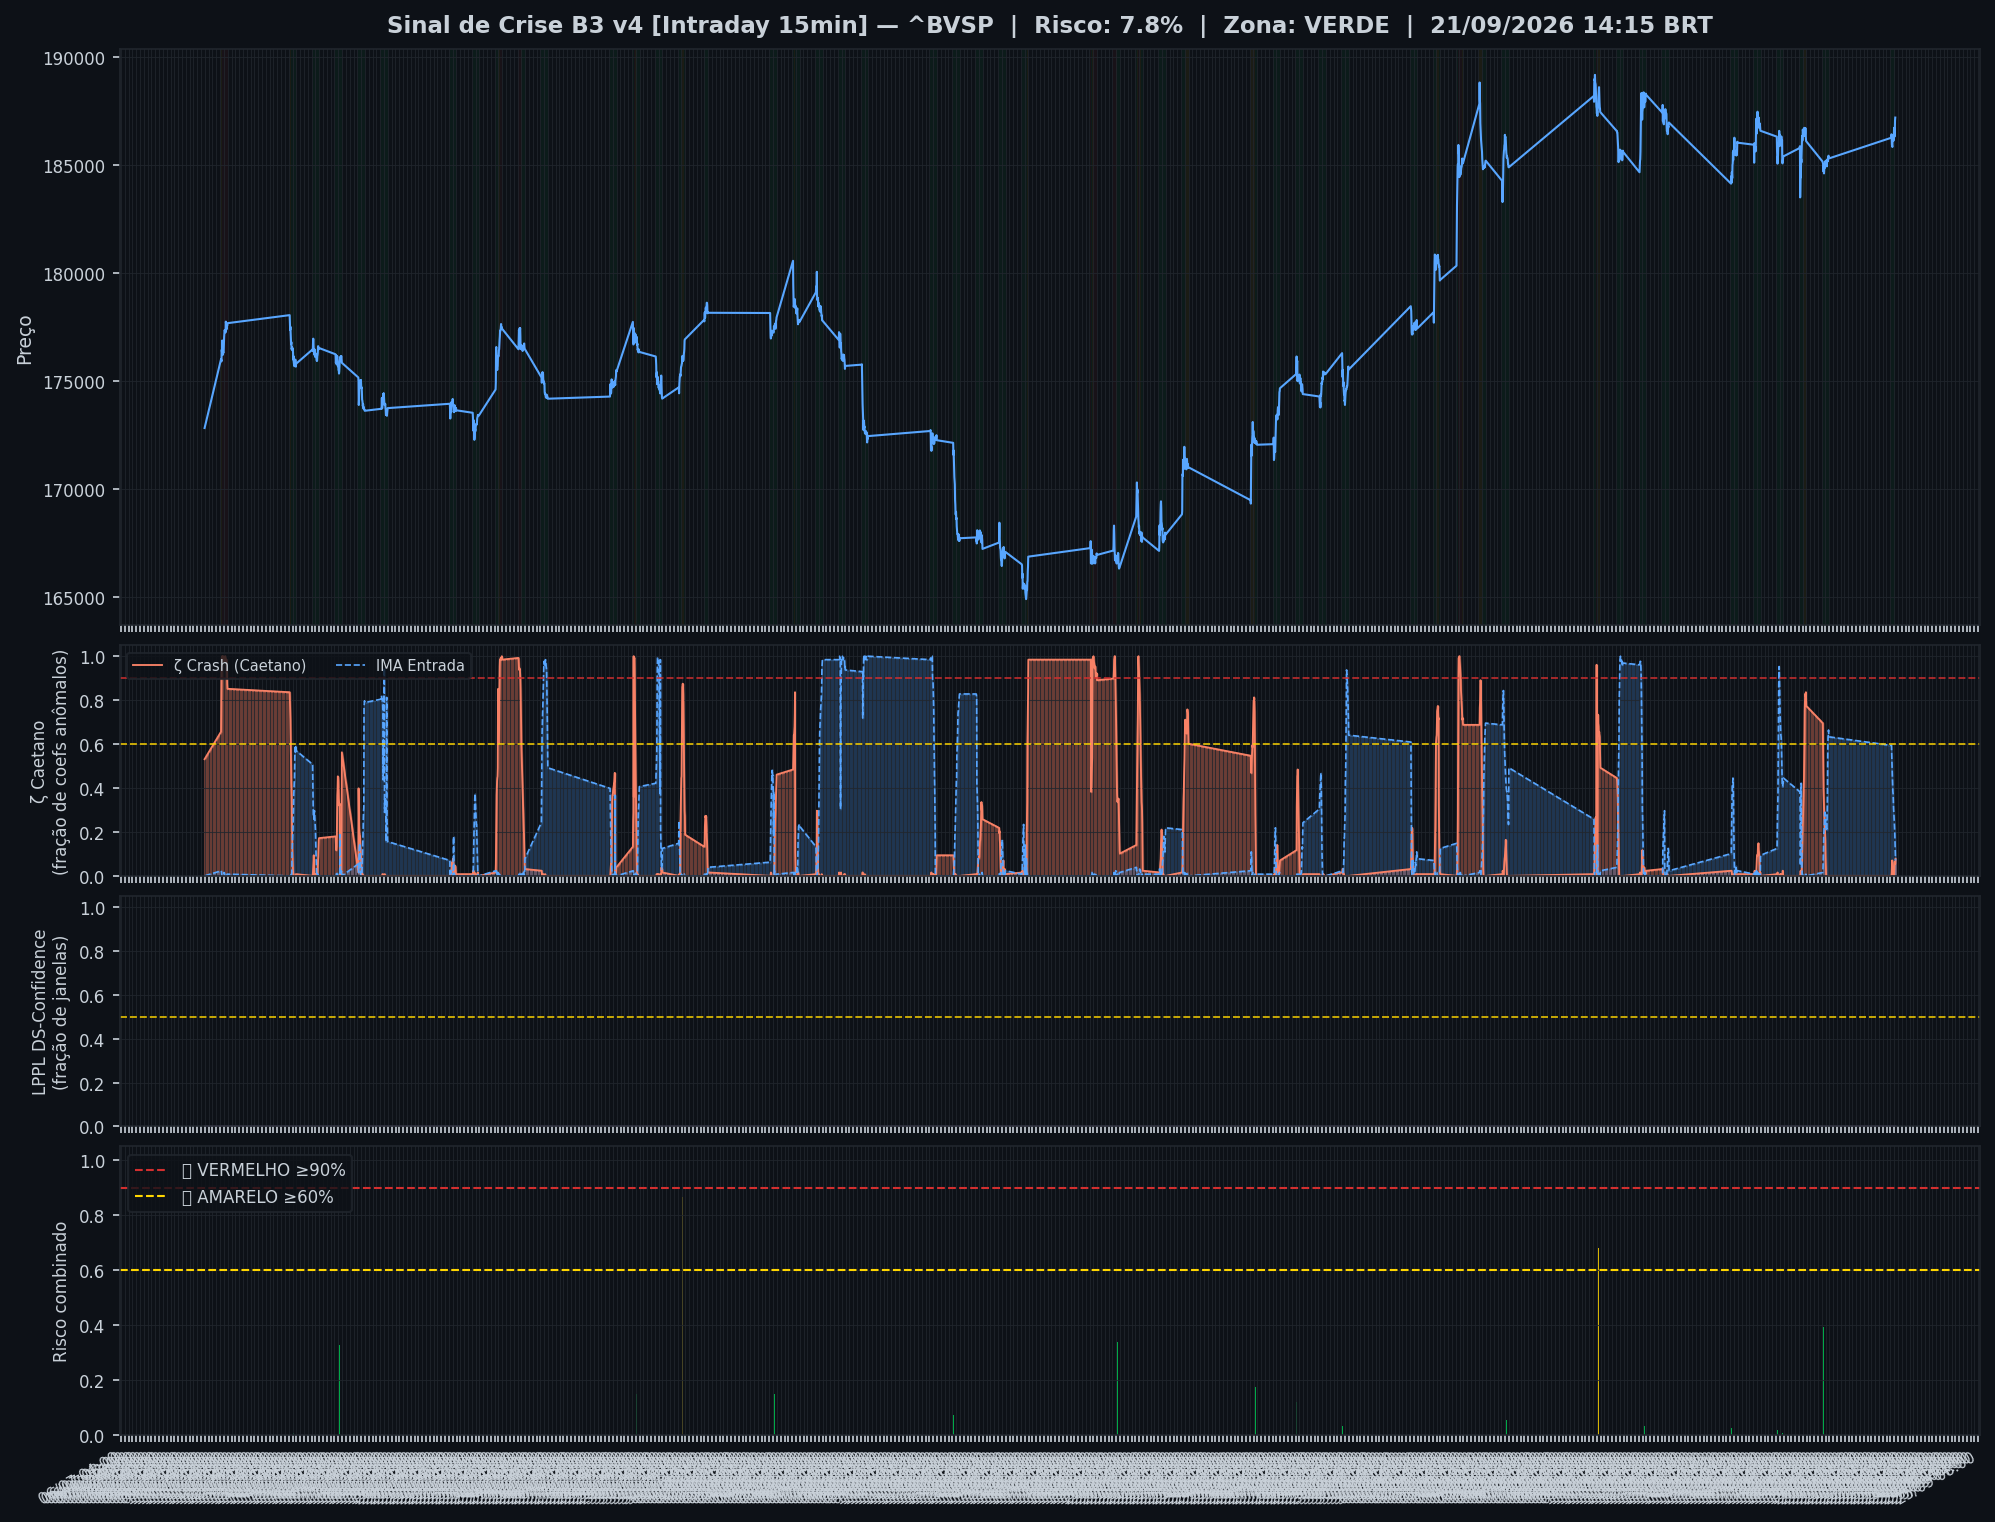
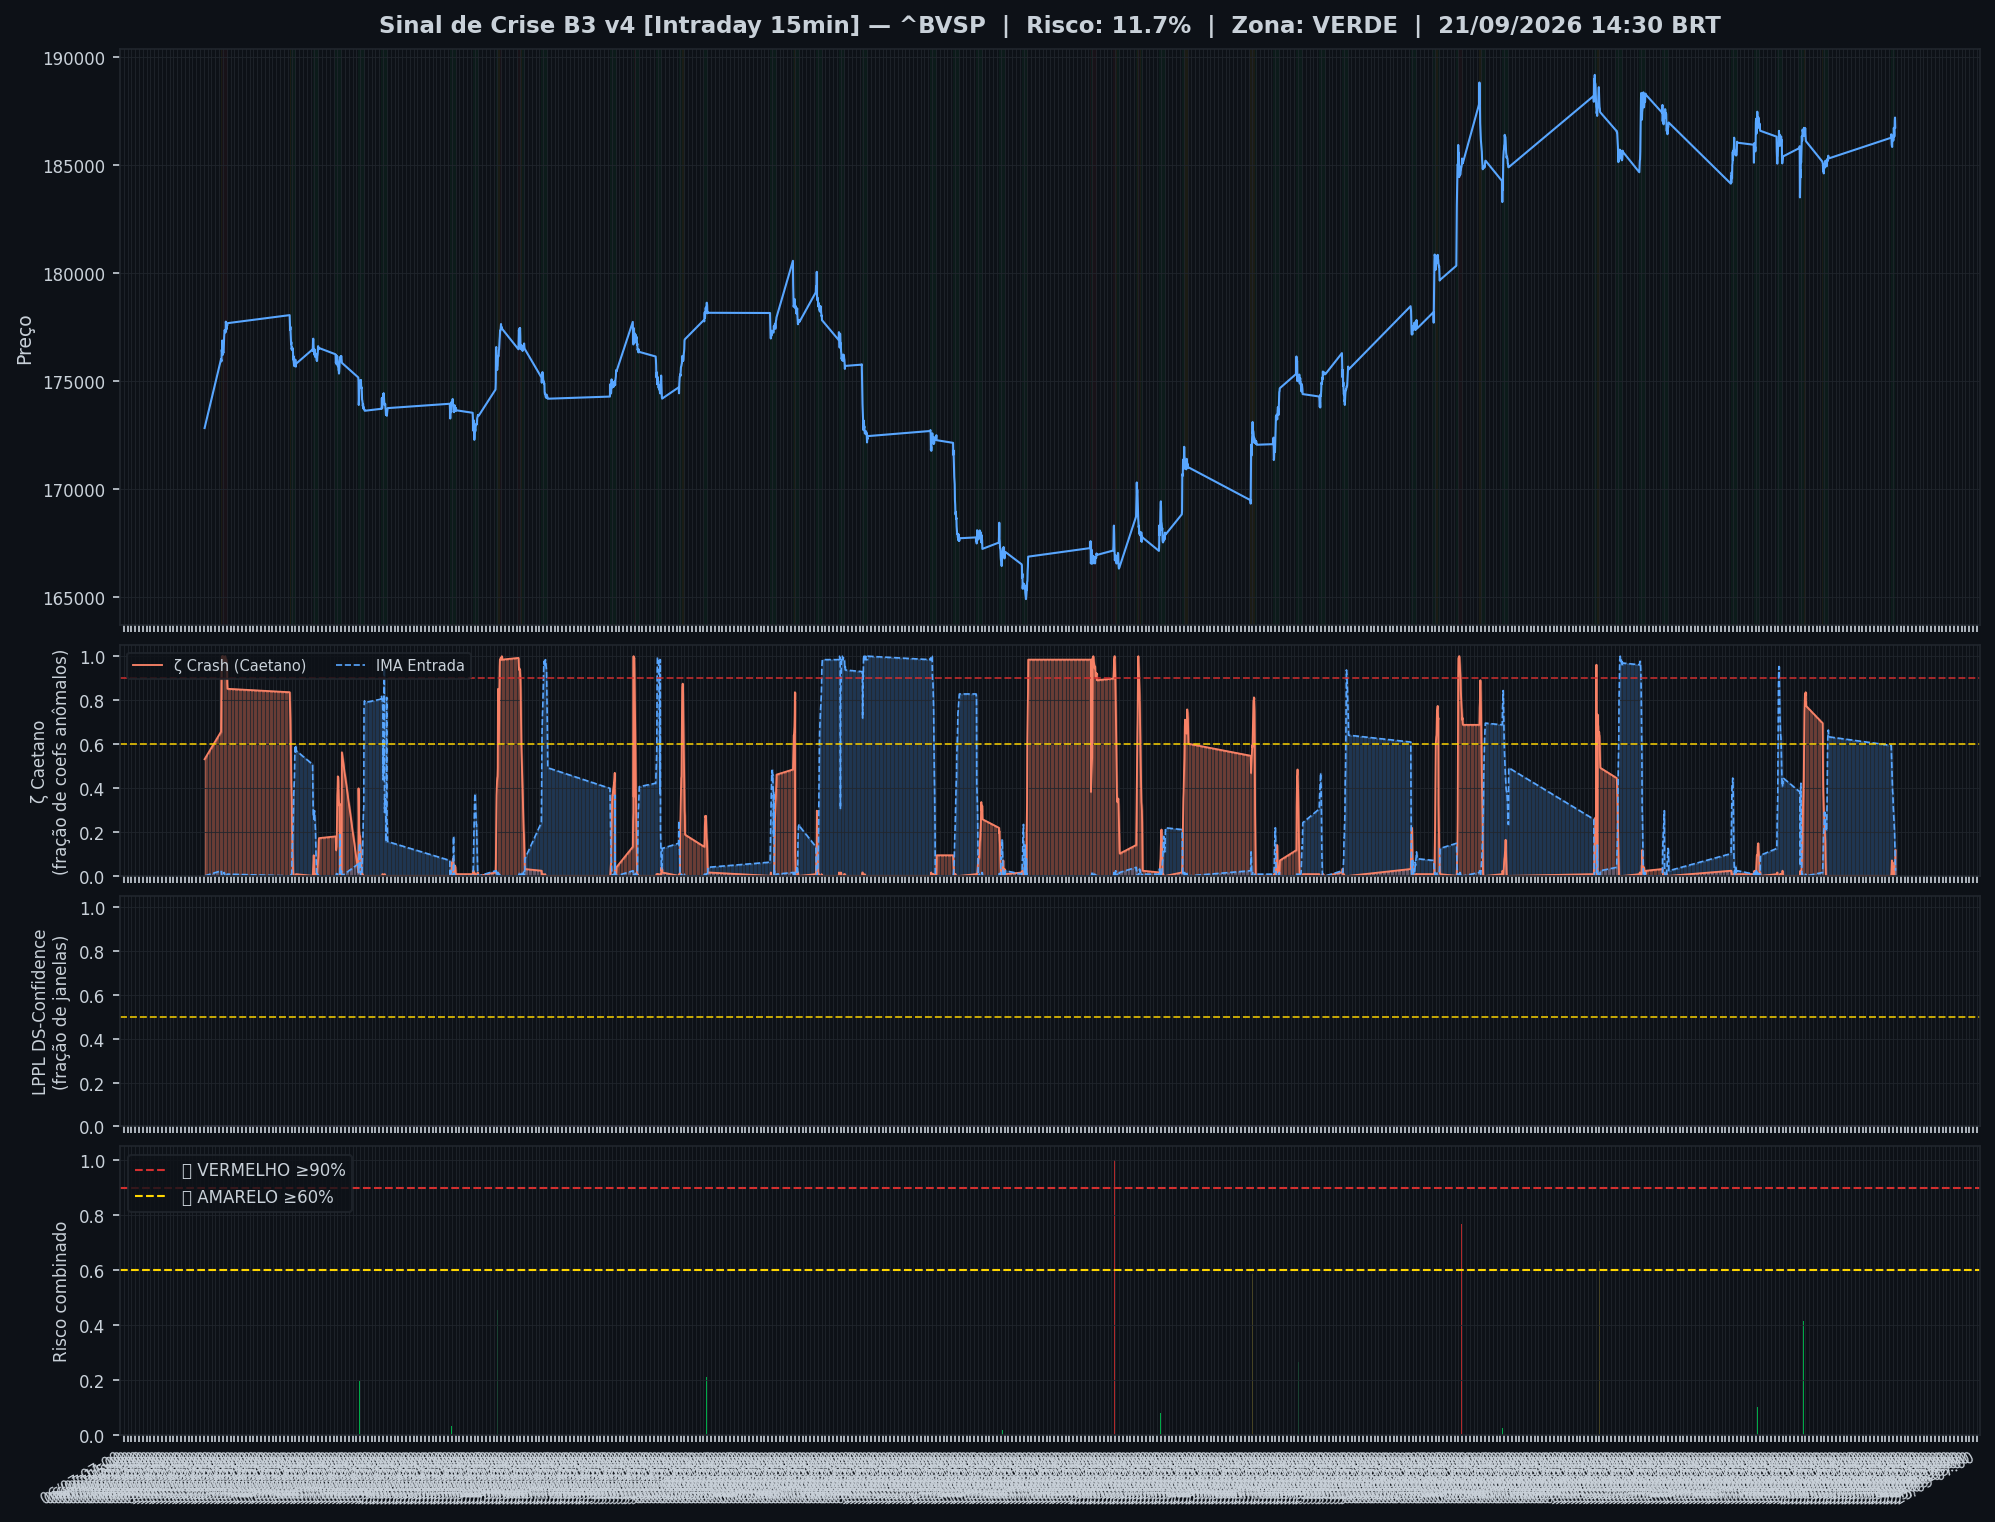
🤖 Auto: Sinal 21/09/2026 15:16

diff --git a/content/intraday/2026-09-21.md b/content/intraday/2026-09-21.md
@@ -1,20 +1,20 @@
 ---
-title: "🟢 Intraday 21/09/2026 14:15 BRT — VERDE"
+title: "🟢 Intraday 21/09/2026 14:30 BRT — VERDE"
 date: 2026-09-21
 tags: [intraday]
 ---
 
-> [!success] 🟢 **VERDE** — Risco 8% · ▲ +2 p.p. vs leitura anterior
+> [!success] 🟢 **VERDE** — Risco 12% · ▲ +4 p.p. vs leitura anterior
 > `██░░░░░░░░░░░░░░░░░░`
 > Mercado sem sinais relevantes de estresse.
 
 
 | Indicador | Valor |
 |---|---|
-| 🔴 ζ Crash — severidade da queda em curso | **8%** |
-| 🔵 ζ Entrada — estrutura de fundo | 7% |
+| 🔴 ζ Crash — severidade da queda em curso | **12%** |
+| 🔵 ζ Entrada — estrutura de fundo | 2% |
 | 🫧 LPPL DS-Confidence | 0% |
-| 📊 Ibovespa | 187.195 pts |
+| 📊 Ibovespa | 186.741 pts |
 
 ![Gráfico do sinal](../graficos/sinal_intraday.png)
 
@@ -22,6 +22,7 @@ tags: [intraday]
 
 | Data | Zona | Risco | IMA Crash | Entrada | LPPL |
 |---|---|---|---|---|---|
+| 2026-09-21 14:30 | 🟢 VERDE | **12%** | 12% | 2% | 0% |
 | 2026-09-21 14:15 | 🟢 VERDE | **8%** | 8% | 7% | 0% |
 | 2026-09-21 14:00 | 🟢 VERDE | **5%** | 5% | 13% | 0% |
 | 2026-09-21 13:45 | 🟢 VERDE | **5%** | 5% | 16% | 0% |
@@ -51,7 +52,6 @@ tags: [intraday]
 | 2026-09-18 14:45 | 🟢 VERDE | **0%** | 0% | 33% | 0% |
 | 2026-09-18 14:30 | 🟢 VERDE | **0%** | 0% | 28% | 0% |
 | 2026-09-18 14:15 | 🟢 VERDE | **0%** | 0% | 21% | 0% |
-| 2026-09-18 14:00 | 🟢 VERDE | **0%** | 0% | 22% | 0% |
 
 ## Monitor Multi-Ativo
 
@@ -59,36 +59,36 @@ tags: [intraday]
 
 | Zona | Ativo | Setor | IMA Crash | IMA Entrada |
 |---|---|---|---|---|
-| 🟢 | **ITAUUNIBANCO** | Financeiro | 0.8% | 48.4% |
-| 🟢 | **USD/BRL** | Câmbio | 0.8% | 40.6% |
-| 🟢 | **VALE** | Mineração | 0.0% | 44.5% |
-| 🟢 | **PETROBRAS** | Petróleo | 0.0% | 44.5% |
-| 🟢 | **PETROBRAS** | Petróleo | 0.0% | 44.5% |
-| 🟢 | **AXIA ENERGIA** | Energia | 0.0% | 44.5% |
-| 🟢 | **SABESP** | Saneamento | 0.0% | 44.5% |
-| 🟢 | **BRADESCO** | Financeiro | 0.0% | 44.5% |
-| 🟢 | **B3** | Financeiro | 0.0% | 44.5% |
-| 🟢 | **ITAUSA** | Financeiro | 0.0% | 44.5% |
-| 🟢 | **WEG** | Industrial | 0.0% | 44.5% |
-| 🟢 | **BTGP BANCO** | Financeiro | 0.0% | 44.5% |
-| 🟢 | **EMBRAER** | Outros | 0.0% | 44.5% |
-| 🟢 | **BRASIL** | Financeiro | 0.0% | 44.5% |
-| 🟢 | **AMBEV S/A** | Consumo | 0.0% | 44.5% |
-| 🟢 | **ENEVA** | Energia | 0.0% | 44.5% |
-| 🟢 | **EQUATORIAL** | Energia | 0.0% | 44.5% |
-| 🟢 | **PRIO** | Petróleo | 0.0% | 44.5% |
-| 🟢 | **COPEL** | Energia | 0.0% | 44.5% |
-| 🟢 | **VIBRA** | Energia | 0.0% | 44.5% |
-| 🟢 | **ULTRAPAR** | Outros | 0.0% | 44.5% |
-| 🟢 | **REDE D OR** | Saúde | 0.0% | 44.5% |
-| 🟢 | **LOCALIZA** | Aluguel | 0.0% | 44.5% |
-| 🟢 | **GERDAU** | Siderurgia | 0.0% | 44.5% |
-| 🟢 | **SUZANO S.A.** | Papel/Celulose | 0.0% | 44.5% |
-| 🟢 | **RAIADROGASIL** | Outros | 0.0% | 44.5% |
+| 🟢 | **USD/BRL** | Câmbio | 1.6% | 38.3% |
+| 🟢 | **VALE** | Mineração | 0.8% | 40.6% |
+| 🟢 | **ITAUUNIBANCO** | Financeiro | 0.8% | 40.6% |
+| 🟢 | **PETROBRAS** | Petróleo | 0.8% | 40.6% |
+| 🟢 | **PETROBRAS** | Petróleo | 0.8% | 40.6% |
+| 🟢 | **AXIA ENERGIA** | Energia | 0.8% | 40.6% |
+| 🟢 | **SABESP** | Saneamento | 0.8% | 40.6% |
+| 🟢 | **BRADESCO** | Financeiro | 0.8% | 40.6% |
+| 🟢 | **B3** | Financeiro | 0.8% | 40.6% |
+| 🟢 | **ITAUSA** | Financeiro | 0.8% | 40.6% |
+| 🟢 | **WEG** | Industrial | 0.8% | 40.6% |
+| 🟢 | **BTGP BANCO** | Financeiro | 0.8% | 40.6% |
+| 🟢 | **EMBRAER** | Outros | 0.8% | 40.6% |
+| 🟢 | **BRASIL** | Financeiro | 0.8% | 40.6% |
+| 🟢 | **AMBEV S/A** | Consumo | 0.8% | 40.6% |
+| 🟢 | **ENEVA** | Energia | 0.8% | 40.6% |
+| 🟢 | **EQUATORIAL** | Energia | 0.8% | 40.6% |
+| 🟢 | **PRIO** | Petróleo | 0.8% | 40.6% |
+| 🟢 | **COPEL** | Energia | 0.8% | 40.6% |
+| 🟢 | **VIBRA** | Energia | 0.8% | 40.6% |
+| 🟢 | **ULTRAPAR** | Outros | 0.8% | 40.6% |
+| 🟢 | **REDE D OR** | Saúde | 0.8% | 40.6% |
+| 🟢 | **LOCALIZA** | Aluguel | 0.8% | 40.6% |
+| 🟢 | **GERDAU** | Siderurgia | 0.8% | 40.6% |
+| 🟢 | **SUZANO S.A.** | Papel/Celulose | 0.8% | 40.6% |
+| 🟢 | **RAIADROGASIL** | Outros | 0.8% | 40.6% |
 
 ![Monitor multi-ativo](../graficos/multi_intraday.png)
 
-*Página atualizada em 21/09/2026 15:01 BRT (leitura da barra de 2026-09-21 14:15 BRT).*
+*Página atualizada em 21/09/2026 15:16 BRT (leitura da barra de 2026-09-21 14:30 BRT).*
 
 > [!info]- Como interpretar (clique para expandir)
 > - **ζ Crash**: fração dos coeficientes wavelet acima do corte (Caetano & Yoneyama 2009). Escala absoluta: ζ=0,90 = 90% dos coeficientes anômalos — historicamente, quedas com ζ≥0,90 foram mais fundas e mais longas. **Mede a severidade do movimento em curso, não prevê o início da queda.**

diff --git a/content/index.md b/content/index.md
@@ -8,19 +8,19 @@ tags: [home]
 
 Monitoramento diário e intraday do Ibovespa — **IMA Wavelet** (Prof. Marco Antonio Leonel Caetano, ITA/INSPER) + **LPPL DS-Confidence** (Prof. Didier Sornette, ETH-Zurich).
 
-*Última atualização: 21/09/2026 15:01 BRT · ^BVSP · Intraday 15min · v4*
+*Última atualização: 21/09/2026 15:16 BRT · ^BVSP · Intraday 15min · v4*
 
-> [!success] 🟢 **VERDE** — Risco 8% · ▲ +2 p.p. vs leitura anterior
+> [!success] 🟢 **VERDE** — Risco 12% · ▲ +4 p.p. vs leitura anterior
 > `██░░░░░░░░░░░░░░░░░░`
 > Mercado sem sinais relevantes de estresse.
 
 
 | Indicador | Valor |
 |---|---|
-| 🔴 ζ Crash — severidade da queda em curso | **8%** |
-| 🔵 ζ Entrada — estrutura de fundo | 7% |
+| 🔴 ζ Crash — severidade da queda em curso | **12%** |
+| 🔵 ζ Entrada — estrutura de fundo | 2% |
 | 🫧 LPPL DS-Confidence | 0% |
-| 📊 Ibovespa | 187.195 pts |
+| 📊 Ibovespa | 186.741 pts |
 
 **Multi-ativo:** 0% em tensão (0🔴 0🟡 de 26 ativos)
 
@@ -32,7 +32,7 @@ Monitoramento diário e intraday do Ibovespa — **IMA Wavelet** (Prof. Marco An
 
 | Data | Zona | Risco | IMA | LPPL |
 |---|---|---|---|---|
-| [21 Sep 2026](diario/2026-09-21) | 🟢 VERDE | **8%** | 8% | 0% |
+| [21 Sep 2026](diario/2026-09-21) | 🟢 VERDE | **12%** | 12% | 0% |
 | [18 Sep 2026](diario/2026-09-18) | 🟢 VERDE | **0%** | 0% | 0% |
 
 ## Navegação

diff --git a/content/historico.md b/content/historico.md
@@ -7,6 +7,7 @@ tags: [historico]
 
 | Data | Modo | Zona | Risco | IMA | LPPL |
 |---|---|---|---|---|---|
+| 2026-09-21 14:30 | intraday | 🟢 VERDE | 12% | 12% | 0% |
 | 2026-09-21 14:15 | intraday | 🟢 VERDE | 8% | 8% | 0% |
 | 2026-09-21 14:00 | intraday | 🟢 VERDE | 5% | 5% | 0% |
 | 2026-09-21 13:45 | intraday | 🟢 VERDE | 5% | 5% | 0% |
